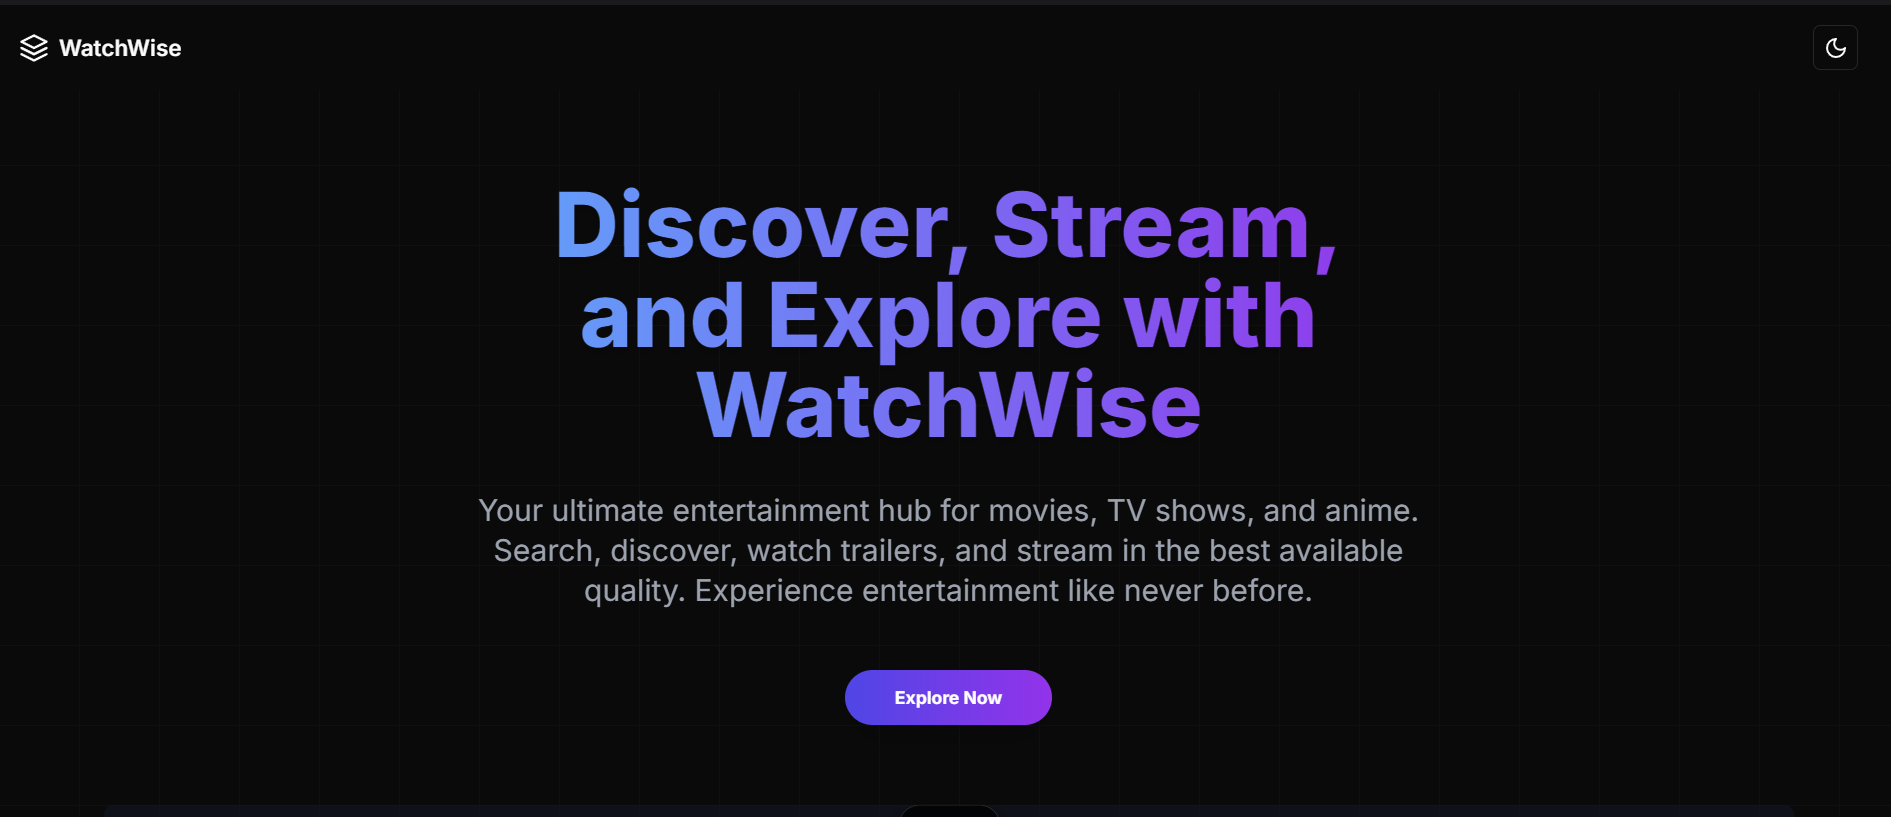
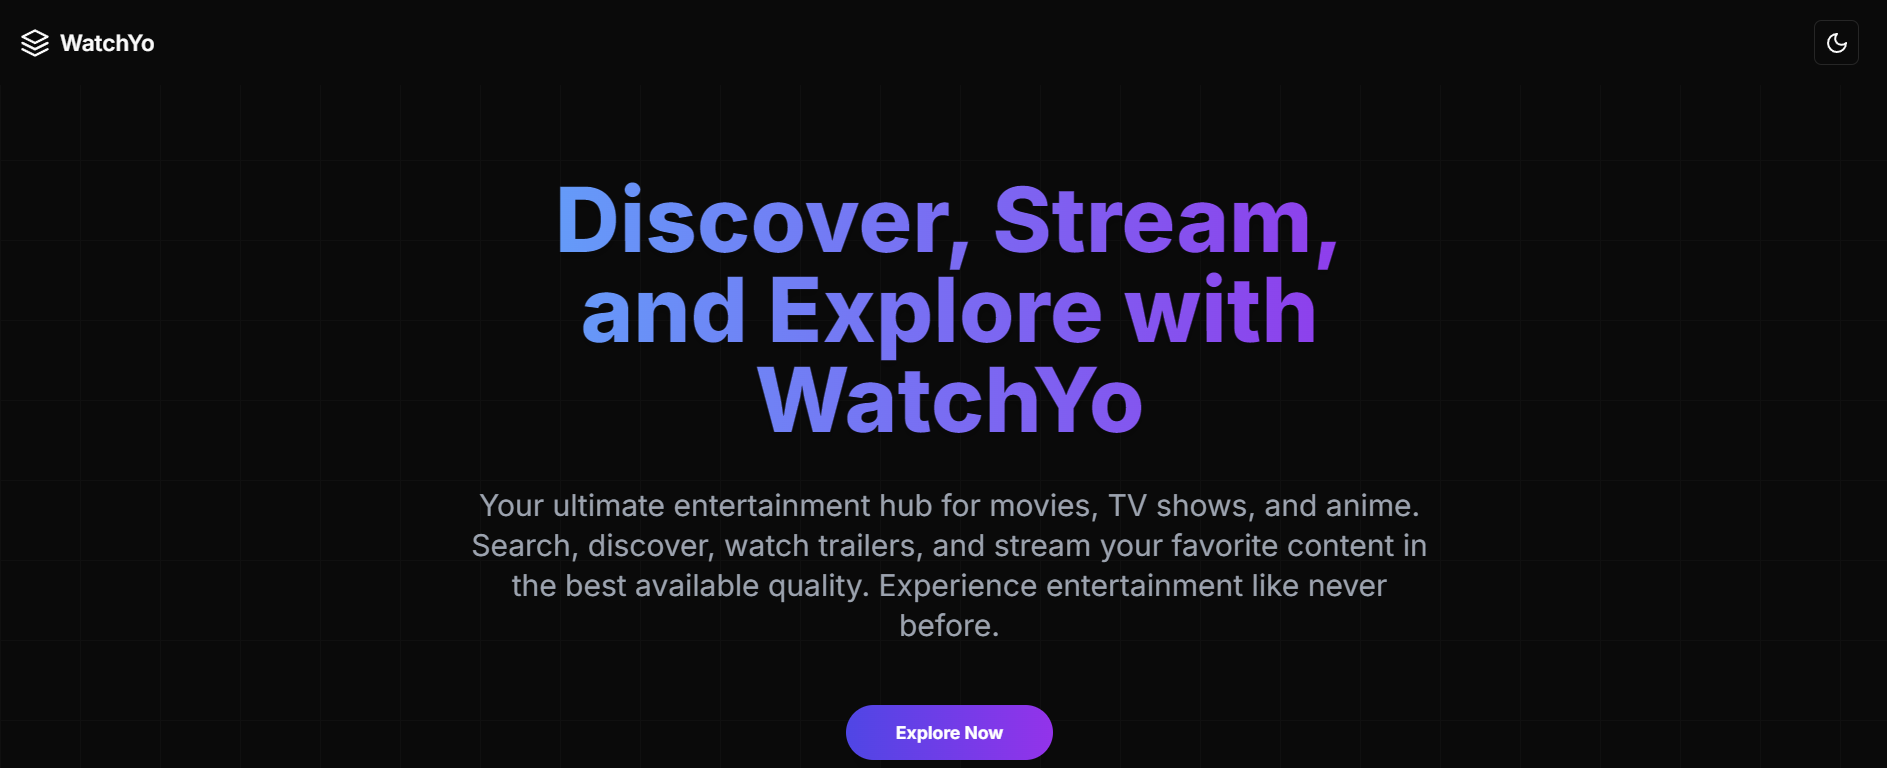
readme update

diff --git a/README.md b/README.md
@@ -1,13 +1,13 @@
 <div align="center">
 
-# WatchWise 🎬
+# WatchYo 🎬
 
-[![Website](https://img.shields.io/badge/Visit-WatchWise-blue)](https://elorate.vercel.app/)
+[![Website](https://img.shields.io/badge/Visit-WatchYo-blue)](https://watchyo.vercel.app/)
 
 
 Your ultimate entertainment hub for movies, TV shows, and anime.
 
-![WatchWise Banner](/readmepic/home.png)
+![WatchYo Banner](/readmepic/home.png)
 
 </div>
 
@@ -35,8 +35,8 @@ Your ultimate entertainment hub for movies, TV shows, and anime.
 
 1. Clone the repository:
    ```bash
-   git clone https://github.com/your-username/watchwise.git
-   cd watchwise
+   git clone https://github.com/your-username/watchyo.git
+   cd watchyo
    ```
 
 2. Install dependencies:
@@ -76,7 +76,7 @@ To learn more about the technologies used in this project, check out the followi
 
 ## 🚀 Deployment
 
-WatchWise is deployed on [Vercel](https://vercel.com/). Visit the live site at [https://elorate.vercel.app/](https://elorate.vercel.app/).
+WatchYo is deployed on [Vercel](https://vercel.com/). Visit the live site at [https://watchyo.vercel.app/](https://watchyo.vercel.app/).
 
 
 ## 🤝 Contributing
@@ -89,8 +89,8 @@ Contributions, issues, and feature requests are welcome!
 
 <div align="center">
 
-© 2024 WatchWise. All rights reserved.
+© 2024 WatchYo. All rights reserved.
 
-[![Made with ❤ ](https://img.shields.io/badge/Made%20with-❤-red.svg)](https://elorate.vercel.app/) 
+[![Made with ❤ ](https://img.shields.io/badge/Made%20with-❤-red.svg)](https://watchyo.vercel.app/) 
 
 </div>
